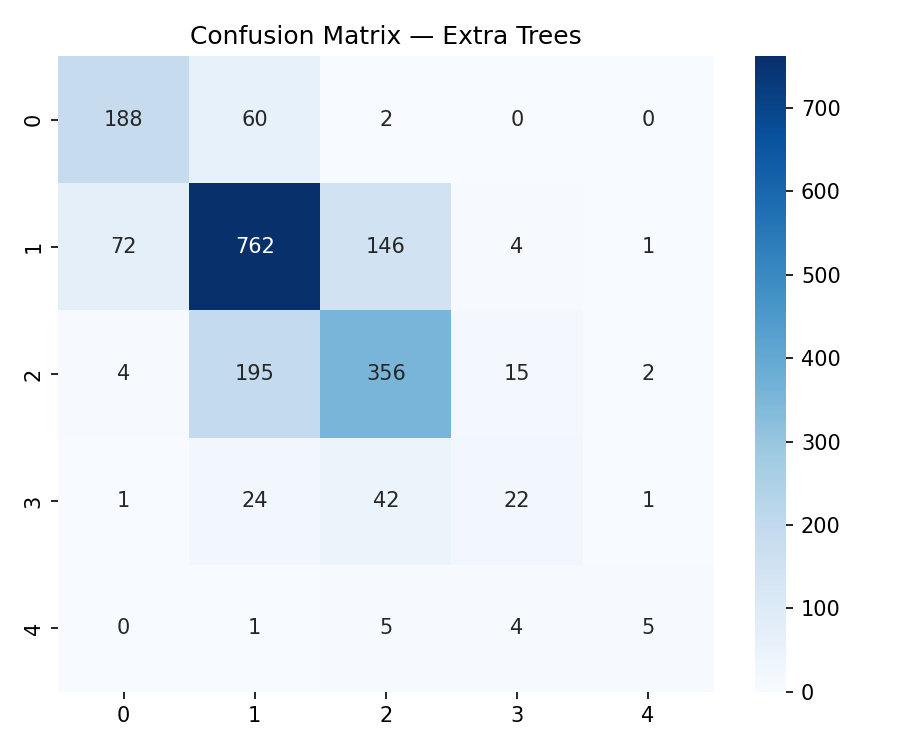
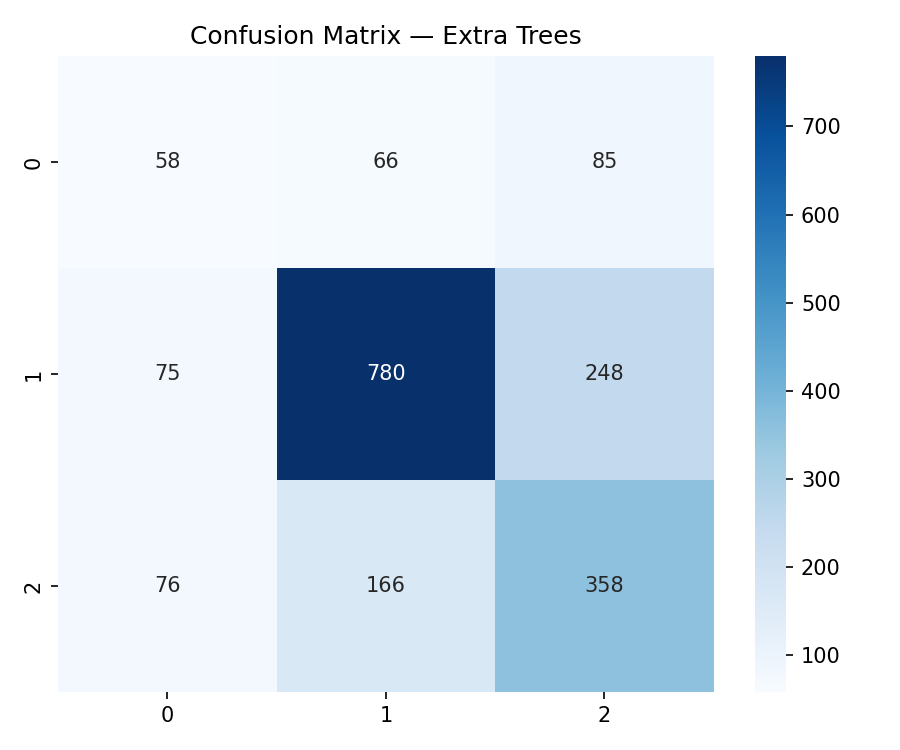
added config into pipeline for code quality

diff --git a/src/pipeline.py b/src/pipeline.py
@@ -2,7 +2,7 @@
 pipeline.py
 
 Full consolidated end-to-end ML pipeline for EGT309 Project Group 4.
-Integrates advanced data transformation, baseline estimator tracking, 
+Integrates advanced data transformation, baseline estimator tracking,
 and automated hyperparameter optimization into a clean OOP architecture.
 """
 
@@ -36,6 +36,9 @@ from sklearn.ensemble import (
 )
 from sklearn.svm import SVC
 from sklearn.naive_bayes import GaussianNB
+
+# ─── IMPORT CENTRALIZED CONFIGURATION ───────────────────────────────────────
+import config
 
 # ─── IMPORT CUSTOM TRANSFORMERS ────────────────────────────────────────────
 try:
@@ -71,87 +74,13 @@ def _banner(title: str) -> None:
 
 
 # ---------------------------------------------------------------------------
-# ─── CENTRALIZED CONFIGURATION ─────────────────────────────────────────────
+# ─── DERIVED PIPELINE PATHS & VARIABLES ────────────────────────────────────
 # ---------------------------------------------------------------------------
-class ProjectConfig:
-    RAW_DATA_PATH: str = "data/raw_data.xlsx"
-    RESULTS_DIR: str = "saved_model"
-    RESULTS_CSV_PATH: str = "saved_model/baseline_model_comparison.csv"
-    BEST_MODEL_NAMES_PATH: str = "saved_model/best_3_models.csv"
-    TUNED_MODEL_PKL_PATH: str = "saved_model/tuned_best_models.pkl"
-    TUNED_METRICS_CSV_PATH: str = "saved_model/tuned_metrics_summary.csv"
-    
-    TEST_SIZE: float = 0.2
-    RANDOM_STATE: int = 42
-    SCORING_METRIC: str = "weighted_f1_score"
-    TARGET_COLUMN: str = "co_gassensor"
-   
-    # Target Cleanup Dictionary Mapping (from tuning.py standard)
-    UNIFORMER_ACTIVITY_FIXES: dict = {
-        "high activity": "High Activity",
-        "low activity": "Low Activity",
-        "moderate activity": "Moderate Activity"
-    }
+TUNED_MODEL_PKL_PATH: str = os.path.join(config.RESULTS_DIR, "tuned_best_models.pkl")
+TUNED_METRICS_CSV_PATH: str = os.path.join(config.RESULTS_DIR, "tuned_metrics_summary.csv")
 
-    IMPUTER_LIGHT_FROM_TIME: dict = {
-        "morning": "dim",
-        "afternoon": "very_bright",
-        "evening": "moderate",
-        "night": "dark",
-    }
-    FE_TIME_OF_DAY_MAP: dict = {"morning": 0, "afternoon": 1, "evening": 2, "night": 3}
-    FE_AMBIENT_LIGHT_MAP: dict = {
-        "very_dim": 0, "dim": 1, "moderate": 2, "bright": 3, "very_bright": 4
-    }
-    FE_ACTIVITY_LEVEL_MAP: dict = {
-        "low_activity": 0, "moderate_activity": 1, "high_activity": 2
-    }
-   
-    SELECTED_MODELS: list = [
-        "Logistic Regression",
-        "K-Nearest Neighbours",
-        "Decision Tree",
-        "Random Forest",
-        "Gradient Boosting",
-        "Extra Trees",
-        "Support Vector Machine",
-        "Naive Bayes"
-    ]
-
-
-config = ProjectConfig()
-
-BASE_MODEL_PARAMS: dict = {
-    "Logistic Regression":      {"max_iter": 1000},
-    "K-Nearest Neighbours":     {},
-    "Decision Tree":            {"random_state": config.RANDOM_STATE},
-    "Random Forest":            {"random_state": config.RANDOM_STATE},
-    "Gradient Boosting":        {"random_state": config.RANDOM_STATE},
-    "Extra Trees":              {"random_state": config.RANDOM_STATE},
-    "Support Vector Machine":   {},
-    "Naive Bayes":              {},
-}
-
-TUNING_GRIDS: dict = {
-    "Random Forest": {
-        "n_estimators": [300, 400],
-        "max_depth": [20, 30, None],
-        "min_samples_split": [2, 5],
-        "max_features": ["sqrt", "log2"],
-    },
-    "Extra Trees": {
-        "n_estimators": [200, 300],
-        "max_depth": [20, 30, None],
-        "min_samples_split": [2, 5],
-    },
-    "Gradient Boosting": {
-        "learning_rate": [0.05, 0.1],
-        "max_depth": [5, 7],
-        "n_estimators": [200, 300],
-    },
-}
-
-CLASS_MAPPING: list = ["High Activity", "Low Activity", "Moderate Activity"]
+# Dynamically extract target classes from the configuration mapping to maintain a single source of truth
+CLASS_MAPPING: List[str] = sorted(config.FE_ACTIVITY_LEVEL_MAP, key=config.FE_ACTIVITY_LEVEL_MAP.get)
 
 
 # ===========================================================================
@@ -161,7 +90,7 @@ CLASS_MAPPING: list = ["High Activity", "Low Activity", "Moderate Activity"]
 class BasicModelTrainer:
     """
     Handles robust pipeline data preparation, feature splitting, stratified scaling,
-    and trains/ranks baseline estimators using global configurations.
+    and trains/ranks baseline estimators using configurations from config.py.
     """
     def __init__(self):
         self.scaler = StandardScaler()
@@ -171,16 +100,16 @@ class BasicModelTrainer:
 
     def _build_selected_models(self) -> Dict[str, Any]:
         library = {
-            "Logistic Regression":    LogisticRegression(**BASE_MODEL_PARAMS["Logistic Regression"]),
-            "K-Nearest Neighbours":   KNeighborsClassifier(**BASE_MODEL_PARAMS["K-Nearest Neighbours"]),
-            "Decision Tree":          DecisionTreeClassifier(**BASE_MODEL_PARAMS["Decision Tree"]),
-            "Random Forest":          RandomForestClassifier(**BASE_MODEL_PARAMS["Random Forest"]),
-            "Gradient Boosting":      GradientBoostingClassifier(**BASE_MODEL_PARAMS["Gradient Boosting"]),
-            "Extra Trees":            ExtraTreesClassifier(**BASE_MODEL_PARAMS["Extra Trees"]),
-            "Support Vector Machine": SVC(**BASE_MODEL_PARAMS["Support Vector Machine"]),
-            "Naive Bayes":            GaussianNB(**BASE_MODEL_PARAMS["Naive Bayes"]),
+            "Logistic Regression":    LogisticRegression(**config.BASE_MODEL_PARAMS.get("Logistic Regression", {})),
+            "K-Nearest Neighbours":   KNeighborsClassifier(**config.BASE_MODEL_PARAMS.get("K-Nearest Neighbours", {})),
+            "Decision Tree":          DecisionTreeClassifier(**config.BASE_MODEL_PARAMS.get("Decision Tree", {})),
+            "Random Forest":          RandomForestClassifier(**config.BASE_MODEL_PARAMS.get("Random Forest", {})),
+            "Gradient Boosting":      GradientBoostingClassifier(**config.BASE_MODEL_PARAMS.get("Gradient Boosting", {})),
+            "Extra Trees":            ExtraTreesClassifier(**config.BASE_MODEL_PARAMS.get("Extra Trees", {})),
+            "Support Vector Machine": SVC(**config.BASE_MODEL_PARAMS.get("Support Vector Machine", {})),
+            "Naive Bayes":            GaussianNB(**config.BASE_MODEL_PARAMS.get("Naive Bayes", {})),
         }
-       
+        
         selected = {}
         for name in config.SELECTED_MODELS:
             if name in library:
@@ -195,10 +124,9 @@ class BasicModelTrainer:
         if config.TARGET_COLUMN not in df.columns:
             raise ValueError(f"Target column '{config.TARGET_COLUMN}' not found in DataFrame.")
 
-        # Uniform target cleanup logic intercepted from tuning.py rules
-        df[config.TARGET_COLUMN] = df[config.TARGET_COLUMN].astype(str).str.replace("_", " ")
+        # Standardize and clean the target labels using fixes from config.py
+        df[config.TARGET_COLUMN] = df[config.TARGET_COLUMN].astype(str).str.replace("_", "").str.strip().str.lower()
         df[config.TARGET_COLUMN] = df[config.TARGET_COLUMN].map(config.UNIFORMER_ACTIVITY_FIXES).fillna(df[config.TARGET_COLUMN])
-        df[config.TARGET_COLUMN] = df[config.TARGET_COLUMN].str.strip()
 
         X = df.drop(columns=[config.TARGET_COLUMN])
         y = df[config.TARGET_COLUMN]
@@ -243,6 +171,9 @@ class BasicModelTrainer:
 
     def train_and_compare(self, X_train, X_test, y_train, y_test) -> Dict[str, dict]:
         results = {}
+        # Map human-readable config metrics to scikit-learn parameter keys
+        sklearn_metric = "weighted" if config.SCORING_METRIC == "weighted_f1_score" else config.SCORING_METRIC
+        
         for name, model in self.models.items():
             log.info("Training %s ...", name)
             t0 = time.time()
@@ -251,13 +182,13 @@ class BasicModelTrainer:
             y_pred = model.predict(X_test)
            
             acc = accuracy_score(y_test, y_pred)
-            wf1 = f1_score(y_test, y_pred, average="weighted")
+            wf1 = f1_score(y_test, y_pred, average=sklearn_metric)
            
             results[name] = {"model": model, "accuracy": acc, "weighted_f1_score": wf1}
             log.info("  %-26s  acc=%.4f  wF1=%.4f  (%.1fs)", name, acc, wf1, elapsed)
 
         sorted_results = dict(
-            sorted(results.items(), key=lambda x: x[1][config.SCORING_METRIC], reverse=True)
+            sorted(results.items(), key=lambda x: x[1].get(config.SCORING_METRIC, x[1]["weighted_f1_score"]), reverse=True)
         )
         return sorted_results
 
@@ -300,7 +231,6 @@ class ModelTuner:
             print(f"\nRunning ADVANCED Optimization for: {name}...")
             model = self.all_models[name]
            
-            # DYNAMIC INJECTION: Overriding parameters on the fly to deal with imbalance
             if hasattr(model, 'class_weight'):
                 model.class_weight = "balanced"
                 print("   --> Class weights balanced successfully.")
@@ -316,8 +246,7 @@ class ModelTuner:
            
             grid_search.fit(X_train, y_train)
             best_model = grid_search.best_estimator_
-            
-            # Extract true metrics to protect pipeline against hardcoded presentation text
+           
             preds = best_model.predict(X_test)
             test_acc = accuracy_score(y_test, preds)
             test_f1 = f1_score(y_test, preds, average='weighted')
@@ -332,13 +261,11 @@ class ModelTuner:
                 "Optimized_Weighted_F1": f"{test_f1:.4f}"
             })
            
-        # Serialize tuned components to disk
         os.makedirs(os.path.dirname(self.output_pkl_path), exist_ok=True)
         with open(self.output_pkl_path, "wb") as f:
             pickle.dump(tuned_results, f)
         log.info("All optimized tuned model configurations saved to: %s", self.output_pkl_path)
 
-        # Dynamic, production-grade automated tracking output
         if metric_logs:
             df_metrics = pd.DataFrame(metric_logs)
             df_metrics.to_csv(self.output_csv_path, index=False)
@@ -367,7 +294,6 @@ class ModelEvaluator:
             target_labels = self.class_mapping[:unique_classes] if unique_classes <= len(self.class_mapping) else None
             print(classification_report(y_test, preds, target_names=target_labels))
 
-            # Render Matrix Visualizations
             cm = confusion_matrix(y_test, preds)
             fig, ax = plt.subplots(figsize=(6, 5))
             sns.heatmap(cm, annot=True, fmt="d", cmap="Blues", ax=ax)
@@ -381,7 +307,7 @@ class ModelEvaluator:
 
 
 # ===========================================================================
-# ─── MAIN EXECUTION BLOCK ────────────────----------------------------------
+# ─── MAIN EXECUTION BLOCK ──────────────────────────────────────────────────
 # ===========================================================================
 
 if __name__ == '__main__':
@@ -393,12 +319,11 @@ if __name__ == '__main__':
     df = loader.load()
     loader.close()
 
-    # Normalize structure across raw data matrices
     df.columns = df.columns.str.strip().str.lower().str.replace(' ', '_')
     df = df.map(lambda x: x.lower().replace(' ', '_') if isinstance(x, str) else x)
 
     print("\nInitial Baseline Target Counts:")
-    print(df['activity_level'].value_counts())
+    print(df[config.TARGET_COLUMN].value_counts())
 
     # 2. Sequential Cleaning Transforms
     df = DataUniformer().transform(df)
@@ -420,7 +345,6 @@ if __name__ == '__main__':
     fe.fit(X)
     X_transformed = fe.transform(X)
 
-    # Recombine engineering variables back into unified framework frame
     df_cleaned = X_transformed.copy()
     df_cleaned[config.TARGET_COLUMN] = y.values
 
@@ -446,9 +370,9 @@ if __name__ == '__main__':
     # 5. Dynamic Hyperparameter Optimization (ModelTuner Execution)
     tuner = ModelTuner(
         all_models=trainer.models,
-        tuning_grids=TUNING_GRIDS,
-        output_pkl_path=config.TUNED_MODEL_PKL_PATH,
-        output_csv_path=config.TUNED_METRICS_CSV_PATH
+        tuning_grids=config.TUNING_PARAM_GRIDS,
+        output_pkl_path=TUNED_MODEL_PKL_PATH,
+        output_csv_path=TUNED_METRICS_CSV_PATH
     )
     tuned_models = tuner.run_tuning(X_train, y_train, X_test, y_test, best_3_names)
    